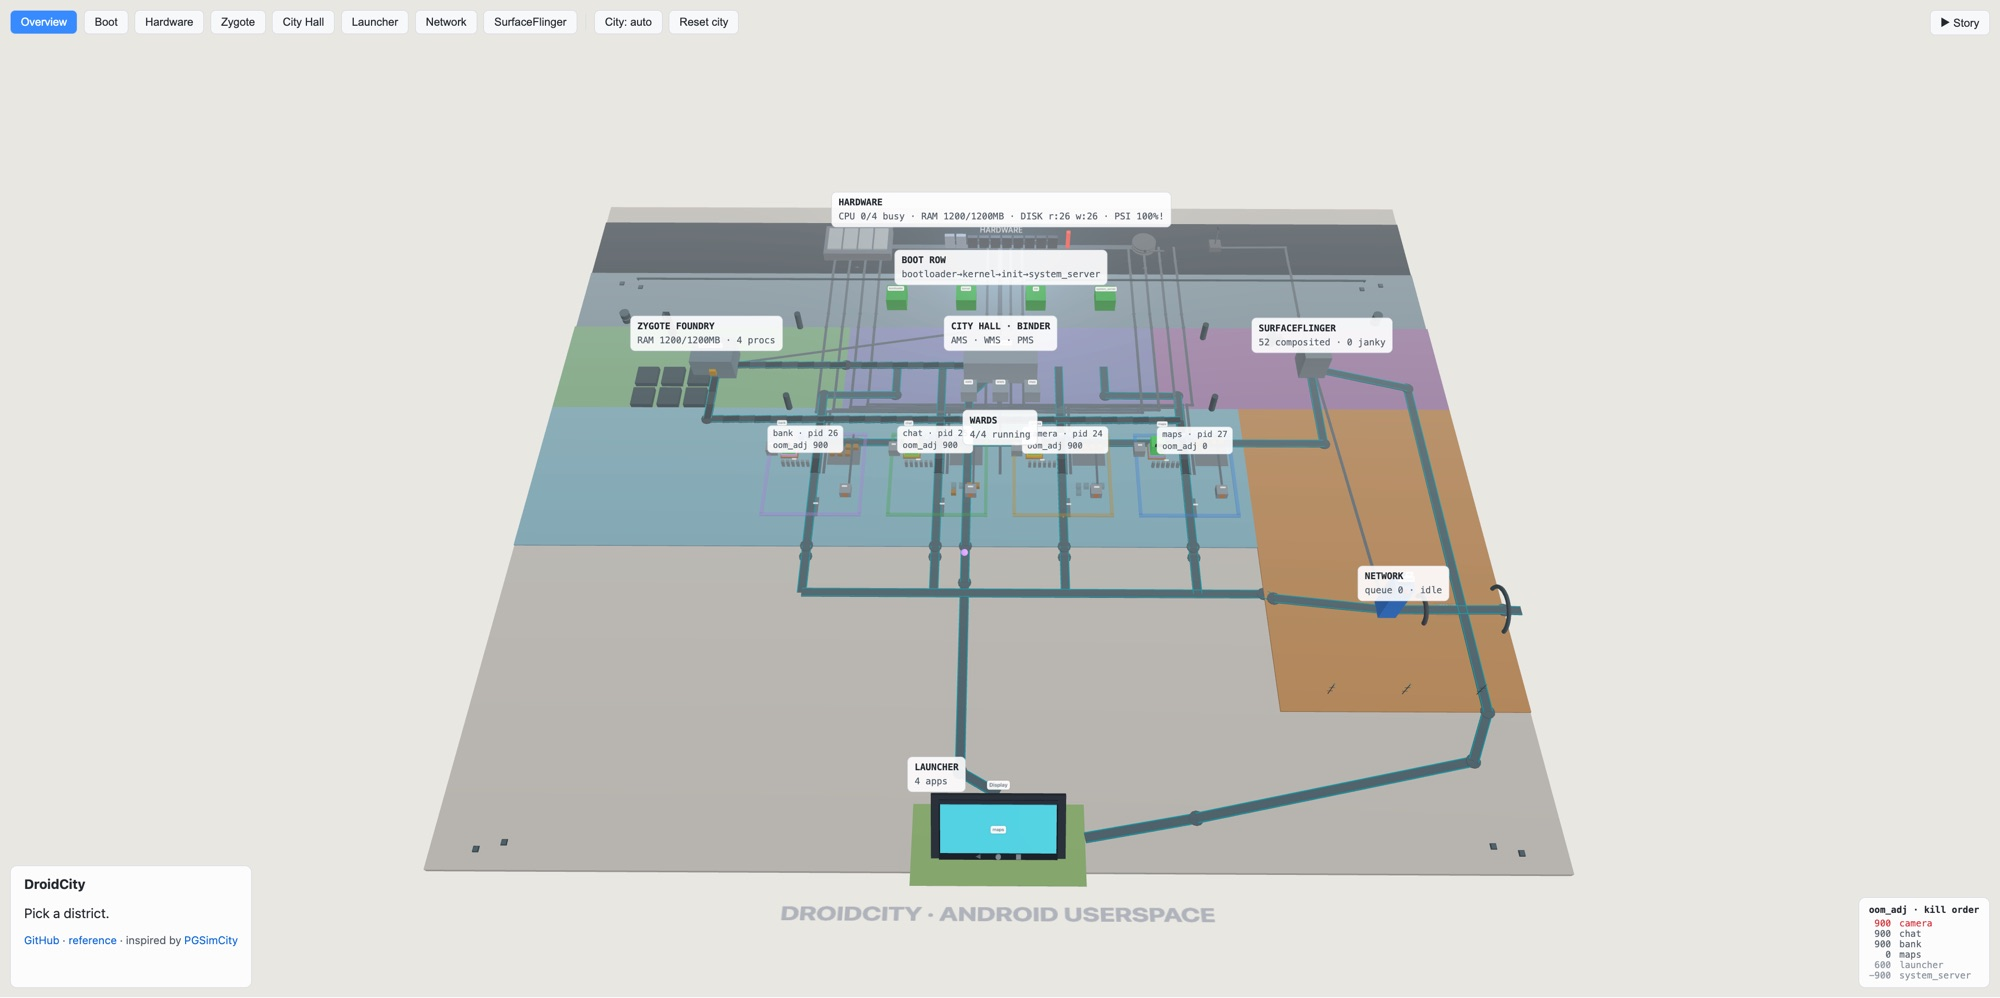
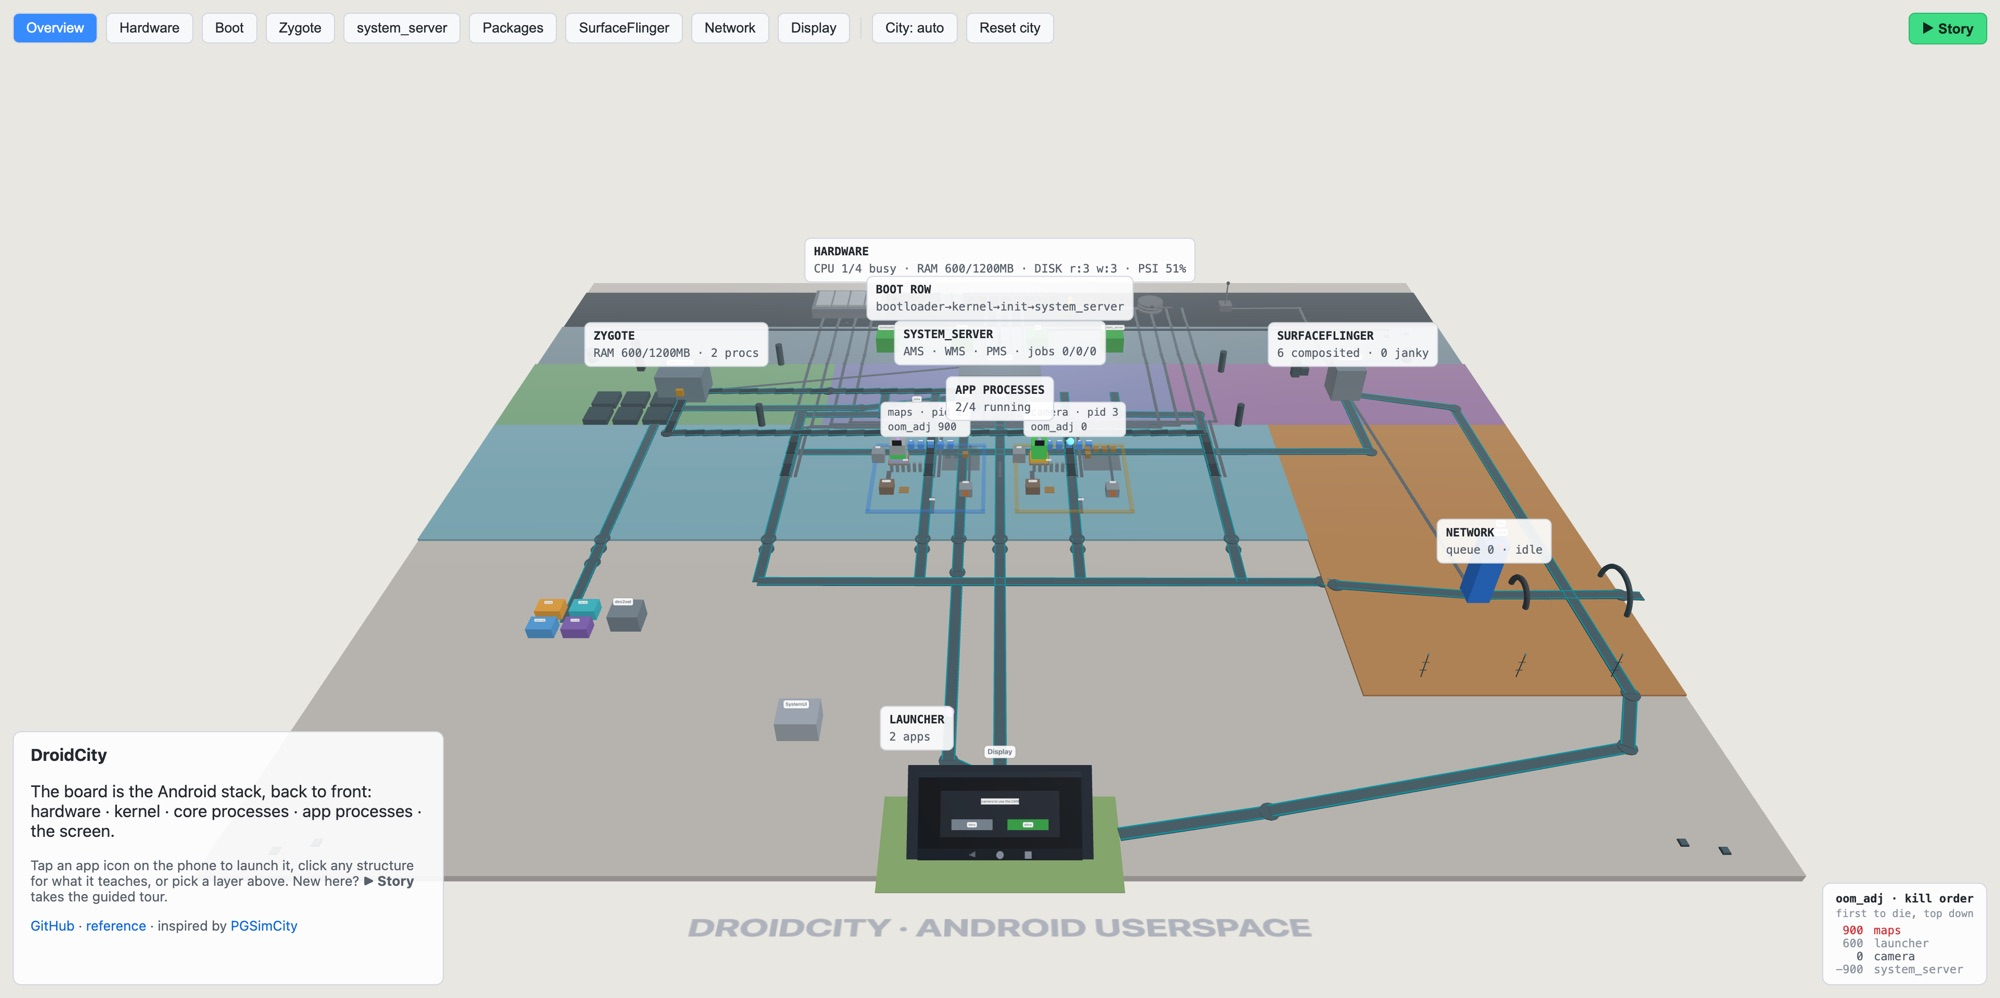
docs: new hero screenshot — the full stack layout with packages, SystemUI, and the phone

Changed region(s): [[0.0, 0.1864, 1.0, 0.994], [0.0, 0.0, 0.527, 0.0621], [0.93, 0.0, 1.0, 0.0621]]

diff --git a/README.md b/README.md
@@ -2,9 +2,9 @@
 
 **How Android runs, as an explorable 3D city.** Live at **[thuat.dev/droidcity](https://thuat.dev/droidcity/)** · inspired by [PGSimCity](https://nikolays.github.io/PGSimCity/).
 
-[![DroidCity — four app wards running, the phone screen at the front edge](docs/overview.jpg)](https://thuat.dev/droidcity/)
+[![DroidCity — the board as the Android stack, with the phone screen at the front edge](docs/overview.jpg)](https://thuat.dev/droidcity/)
 
-*Four apps running: each is a walled ward on the app band, every Binder road hops one band down to City Hall, and the phone at the front shows the foreground app — with the live `oom_adj` kill order bottom-right.*
+*Two apps running. Read the board back to front: the hardware strip and boot row across the top, the core-process band (Zygote · system_server · SurfaceFlinger) below them, app processes on the next band down, the installed-package shelves and SystemUI off to the west, the radio edge east — and the phone itself at the front, mid permission dialog. Bottom-right is the live `oom_adj` kill order.*
 
 One machine board, laid out as the Android stack itself — read it north to south: hardware → kernel/boot → core processes → app wards → the glass. Every running app rises as its own walled ward, and the display at the front edge is a working phone screen. Everything is live: hover any structure for what it teaches, tap an icon on the glass and follow the launch across the board.
 
